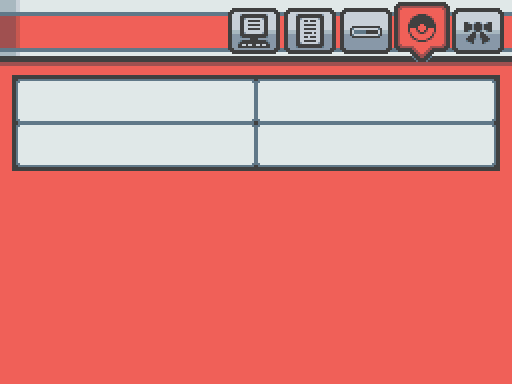
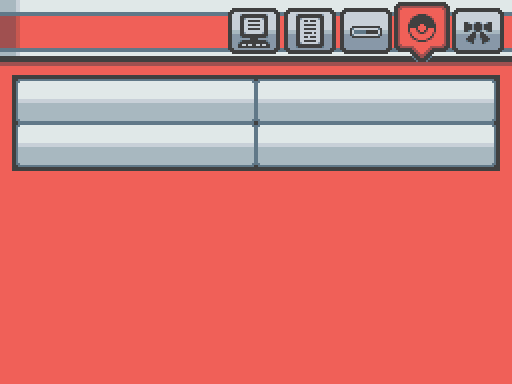
Summary move page visual improvements

Changed region(s): [[0.0312, 0.375, 0.9688, 0.4375], [0.0312, 0.25, 0.9688, 0.3125]]

diff --git a/Plugins/Tectonic Game Data/Compiled Data/Type.rb b/Plugins/Tectonic Game Data/Compiled Data/Type.rb
@@ -9,6 +9,7 @@ module GameData
       attr_reader :resistances
       attr_reader :immunities
       attr_reader :color
+      attr_reader :dark_color
   
       DATA = {}
       DATA_FILENAME = "types.dat"
@@ -17,11 +18,12 @@ module GameData
         "Name"          => [1, "s"],
         "InternalName"  => [2, "s"],
         "Color"         => [3, "uuu"],
-        "IsPseudoType"  => [4, "b"],
-        "IsSpecialType" => [5, "b"],
-        "Weaknesses"    => [6, "*s"],
-        "Resistances"   => [7, "*s"],
-        "Immunities"    => [8, "*s"],
+        "DarkColor"     => [4, "uuu"],
+        "IsPseudoType"  => [5, "b"],
+        "IsSpecialType" => [6, "b"],
+        "Weaknesses"    => [7, "*s"],
+        "Resistances"   => [8, "*s"],
+        "Immunities"    => [9, "*s"],
     }
   
       extend ClassMethods
@@ -42,6 +44,8 @@ module GameData
 
         rgb = hash[:color]
         @color        = Color.new(rgb[0],rgb[1],rgb[2]) if rgb
+        dark_rgb = hash[:dark_color]
+        @dark_color   = Color.new(dark_rgb[0],dark_rgb[1],dark_rgb[2]) if dark_rgb
       end
   
       # @return [String] the translated name of this item
@@ -214,6 +218,7 @@ module Compiler
           :resistances  => contents["Resistances"],
           :immunities   => contents["Immunities"],
           :color        => contents["Color"],
+          :dark_color   => contents["DarkColor"],
         }
         # Add type's data to records
         GameData::Type.register(type_hash)
@@ -256,6 +261,10 @@ module Compiler
         if type.color
           rgb = [type.color.red.to_i,type.color.green.to_i,type.color.blue.to_i]
           f.write("Color = #{rgb.join(",")}\r\n")
+        end
+        if type.dark_color
+          dark_rgb = [type.dark_color.red.to_i,type.dark_color.green.to_i,type.dark_color.blue.to_i]
+          f.write("DarkColor = #{dark_rgb.join(",")}\r\n")
         end
         f.write("IsPseudoType = true\r\n") if type.pseudo_type
         f.write("IsSpecialType = true\r\n") if type.special?

diff --git a/Plugins/Tectonic Graphics and UI/Menus/Summary.rb b/Plugins/Tectonic Graphics and UI/Menus/Summary.rb
@@ -851,14 +851,18 @@ class PokemonSummary_Scene
     def drawMoveNames(textpos,extra_move = nil)
         moveBase   = Color.new(64, 64, 64)
         fadedBase = Color.new(110,110,110)
-        moveShadow = Color.new(176, 176, 176)
+        moveShadow = Color.new(160, 160, 168)
         # Write move names
         for i in 0...Pokemon::MAX_MOVES
             move = @pokemon.moves[i]
             xPos = SUMMARY_MOVE_NAMES_X_INIT + 126 + (i % 2) * SUMMARY_MOVE_NAMES_X_OFFSET
             yPos = SUMMARY_MOVE_NAMES_Y_INIT + 10 + (i/2) * SUMMARY_MOVE_NAMES_Y_OFFSET
             if move
-                textpos.push([move.name, xPos, yPos, 2, moveBase, moveShadow])
+                individualMoveBaseColor = moveBase
+                if move.type
+                    individualMoveBaseColor = GameData::Type.get(move.type).dark_color
+                end
+                textpos.push([move.name, xPos, yPos, 2, individualMoveBaseColor, moveShadow])
             else
                 textpos.push(["---", xPos, yPos, 2, fadedBase, moveShadow])
             end
@@ -867,7 +871,11 @@ class PokemonSummary_Scene
         if extra_move
             xPos = SUMMARY_MOVE_NAMES_X_INIT + 126 + SUMMARY_MOVE_NAMES_X_OFFSET
             yPos = SUMMARY_LEARNING_MOVE_NAME_Y + 10
-            textpos.push([extra_move.name, xPos, yPos, 2, moveBase, moveShadow])
+            extraMoveBaseColor = moveBase
+            if extra_move.type
+                extraMoveBaseColor = GameData::Type.get(extra_move.type).dark_color
+            end
+            textpos.push([extra_move.name, xPos, yPos, 2, extraMoveBaseColor, moveShadow])
         end
     end
 
